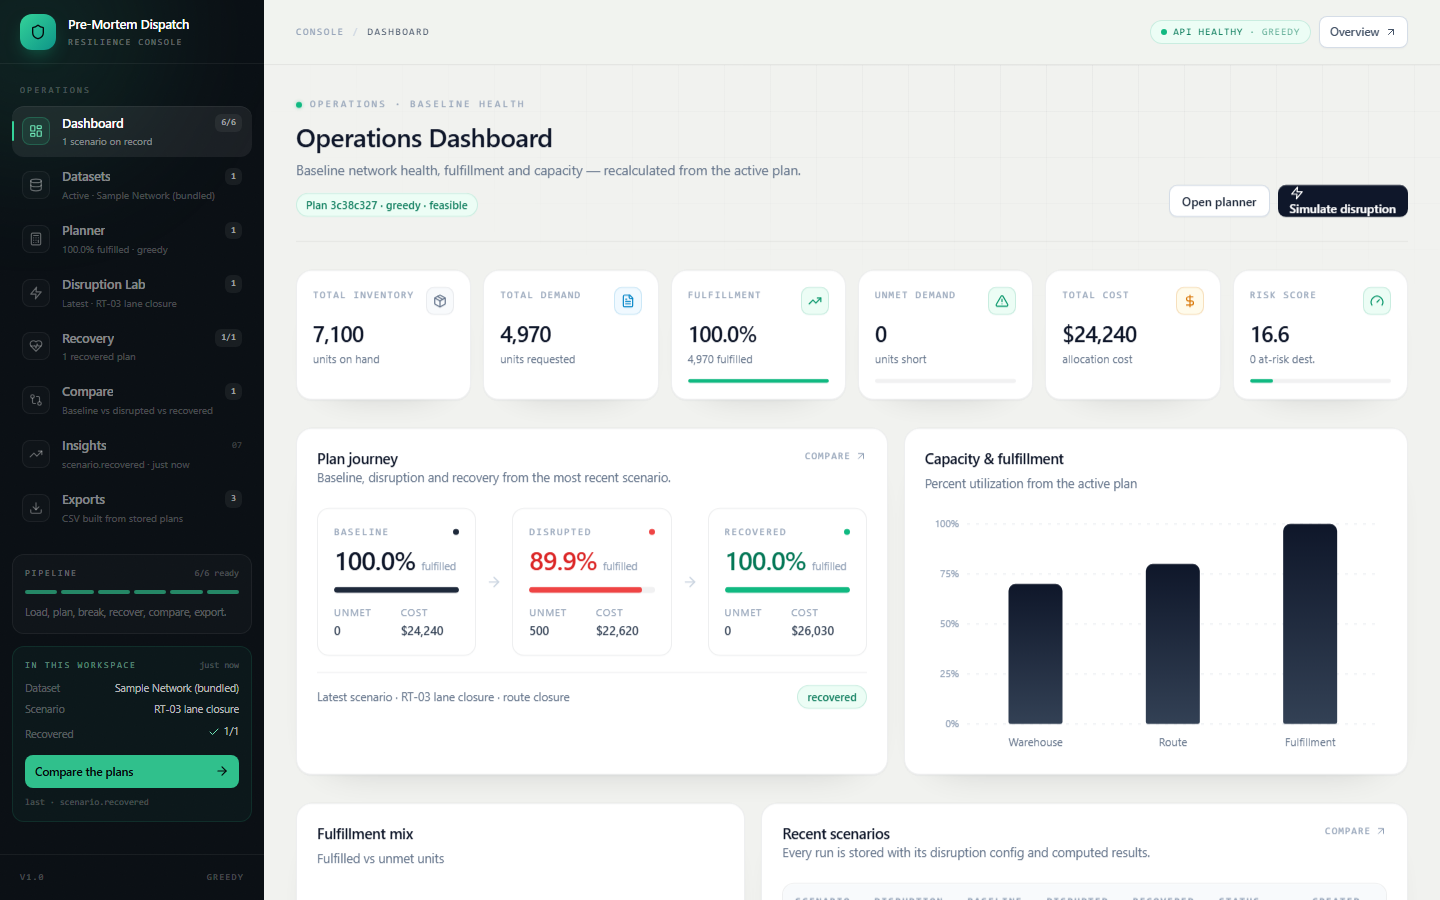
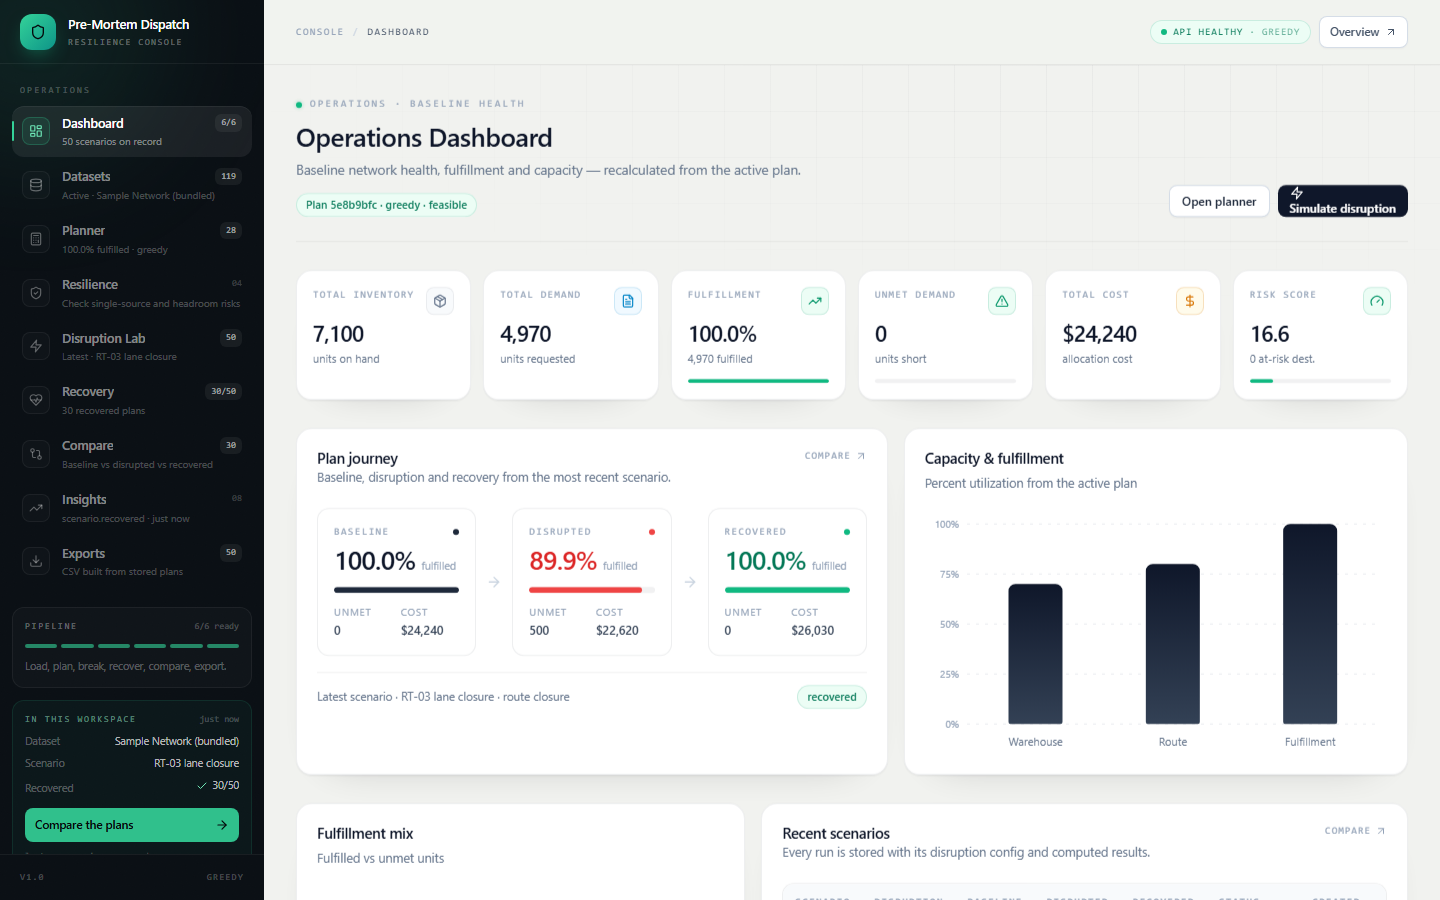
Docs: document the resilience intelligence release
Describe the new readiness and service-brief contracts, record their solver-tested guarantees, and regenerate all screenshots from the updated application.

diff --git a/README.md b/README.md
@@ -17,6 +17,7 @@ number computed, not narrated.
 |---|---|---|
 | 1 | **Datasets** | Load a bundled 4-warehouse / 8-destination network, or upload six CSVs. Schema, type, duplicate and referential checks run before anything is planned. |
 | 2 | **Planner** | Solves a constrained allocation: inventory, lane capacity, lane availability, product eligibility, destination priority — and, optionally, destination deadlines as a hard constraint. Shows every shipment, every gap, and the risk-score breakdown. |
+| ★ | **Resilience** | Scores ordinary-lane redundancy, contingency coverage, capacity headroom, inventory concentration and deadline margin before a failure is simulated. Vulnerabilities are ranked by affected units × destination priority. |
 | 3 | **Disruption Lab** | Mutates *real planning inputs* — reduced stock, zeroed supply, a closed lane, or added transit days — alone or up to five at once, applied in order. Impact is the difference between two computed plans. |
 | 4 | **Recovery** | Re-plans using contingency lanes and priority ordering, lists each concrete allocation change with its unit cost, and names the constraint behind every residual gap. |
 | 5 | **Compare** | Baseline / disrupted / recovered side by side, with server-computed deltas and a written trade-off. |
@@ -32,6 +33,11 @@ number computed, not narrated.
 
 That is the whole product in one line: *closing a lane costs 500 units of demand; buying it back
 through contingency capacity costs $3,410.*
+
+The tested mitigation view sharpens that answer further: activating `RT-13` alone restores 250
+of the 500 missing units for $1,905, while a 200-unit buffer at `WH-01` restores the largest
+remaining gap for $1,000. Every number is a fresh solver run, so the app can show which single
+manufacturer action is effective rather than merely recommending recovery.
 
 If recovery genuinely cannot cover demand, the app returns the residual gaps and names the
 limiting destination×product rows. It never reports a success it cannot compute.
@@ -50,6 +56,19 @@ limiting destination×product rows. It never reports a success it cannot compute
   against the same baseline. Shortage curves chart fulfilment and unmet units; delay curves
   chart deadline exposure, because volume stays at 100%. Each point names its dominant cause,
   and no scenario or plan is stored.
+- **Consumer service brief** — converts the disrupted plan into coverage and complete/on-time
+  service rates, highlights priority 1–2 unmet units, and ranks affected destination×product
+  promises without pretending to know individual customer counts.
+- **Solver-tested mitigations** — up to six isolated actions (activate a backup lane, add lane
+  capacity, create an inventory buffer, or expedite a route) are re-solved individually. The UI
+  shows the units actually restored, deadline units protected, marginal cost and residual gap.
+
+### How it serves both sides of the supply chain
+
+Manufacturers get an evidence-based answer to *"which dependency should we remove first, and what
+will the mitigation actually restore?"* Consumers are represented through the destinations they
+depend on: hospitals, clinics and fulfillment points receive a service-level view of how much
+demand is complete, late or unserved — never a marketing claim that a gap was solved.
 
 ### Screens
 
@@ -67,6 +86,8 @@ real computed figures. Every CTA routes into the console.
 | **Planner** — allocations, gaps, risk breakdown | **Compare** — absolute values, deltas, deadline exposure |
 | ![Workspace insights](docs/screenshots/insights.png) | ![Recovery center](docs/screenshots/recovery.png) |
 | **Insights** — server-aggregated trends, mix, recovery economics | **Recovery** — contingency actions, residual gaps, trade-off |
+| ![Network resilience](docs/screenshots/resilience.png) | ![Tested mitigations](docs/screenshots/mitigation-brief.png) |
+| **Resilience** — readiness score, bottlenecks and dependencies | **Service brief** — consumer exposure and ranked mitigation effects |
 
 ### Usability that survives a real workspace
 
@@ -116,7 +137,7 @@ drifting aurora gradients, a marquee of modelled constraints, and cursor spotlig
 it respects `prefers-reduced-motion`.
 
 **Routes:** `/` landing · `/login` (auth/token entry) · `/dashboard` · `/datasets` · `/planner` ·
-`/disruption` · `/recovery` · `/compare` · `/insights` · `/exports`
+`/resilience` · `/disruption` · `/recovery` · `/compare` · `/insights` · `/exports`
 
 ---
 
@@ -167,14 +188,14 @@ OR-Tools ran.
 ## Tests
 
 ```bash
-# Backend: allocation invariants + full API workflow
-python -m pytest apps/api/tests -q          # 95 passed
+# Backend: allocation, lifecycle, resilience and full API workflow
+python -m pytest apps/api/tests -q          # 101 passed
 
 # Frontend typecheck + production build
 cd apps/web && npm run build
 
 # Browser E2E — starts the API and Vite itself, on a separate e2e database
-cd apps/web && npx playwright test          # 17 passed
+cd apps/web && npx playwright test          # 18 passed
 ```
 
 `playwright.config.ts` auto-starts both processes and reuses already-running servers locally, so
@@ -241,8 +262,8 @@ apps/
       domain/      schemas.py — single source of truth (Pydantic)
       routers/     health, auth, activity, analytics, datasets, plans,
                    scenarios, forecast
-      services/    allocation, disruption, recovery, kpi, normalize,
-                   validation, reporting, audit, ml/{interface,baseline}
+      services/    allocation, disruption, recovery, resilience, advisory, kpi,
+                   normalize, validation, reporting, audit, ml/{interface,baseline}
       repo/        SQLite repository
     tests/
   web/
@@ -274,6 +295,12 @@ Full detail — data flow, invariants, objective function, risk formula — in
   replan.
 - **Feasibility ≠ optimality** — the greedy engine is feasible and priority-respecting, not
   proven optimal. Every plan displays its solver and status.
+- **Readiness ≠ disruption impact** — the resilience score measures structural redundancy and
+  headroom before failure; the existing risk score measures what the current plan actually fails
+  to serve. They are deliberately separate.
+- **Advice must earn its numbers** — a mitigation recommendation is one candidate mutation plus
+  a re-solve. The displayed restored units, deadline effect and cost come from that result; an
+  option that fails is labelled `no_effect` instead of being hidden or described as a win.
 
 ---
 

diff --git a/docs/api-contract.md b/docs/api-contract.md
@@ -194,6 +194,38 @@ emptied by newer plans of another type. `constraints` reports the planning polic
 Same shape as the create response, including `solver_status`, `constraints` and
 `unmet_diagnosis`.
 
+### `GET /plans/{id}/resilience`
+Pre-mortem readiness of a completed baseline. The endpoint reads the stored plan and its
+dataset, writes no plan/scenario/activity row, and returns an ephemeral score.
+
+```json
+{
+  "plan_id": "uuid",
+  "dataset_id": "uuid",
+  "score": 63.15,
+  "grade": "fragile",
+  "definition": "resilience_score = 30×lane redundancy + 20×contingency coverage + 20×capacity headroom + 15×inventory diversification + 15×delivery margin",
+  "score_components": [{ "key": "lane_redundancy", "weight": 30, "rate": 0.4688, "points": 14.06, "evidence": { "redundant_units": 2330 } }],
+  "metrics": { "total_demand": 4970, "redundant_lane_units": 2330, "contingency_covered_units": 4970, "capacity_headroom_rate": 0.2048 },
+  "vulnerabilities": [{
+    "kind": "lane_bottleneck",
+    "severity": "high",
+    "title": "WH-02 → DST-01 is 92.9% allocated",
+    "affected_units": 650,
+    "priority": 1,
+    "route_ids": ["RT-03"],
+    "evidence": { "shipped": 650, "capacity": 700, "utilization": 0.9286 }
+  }],
+  "recommendations": [{ "kind": "capacity_uplift", "title": "Increase spare lane capacity before the next planning cycle", "detail": "..." }],
+  "note": "Ephemeral readiness assessment: it does not store a plan, scenario, or activity record."
+}
+```
+
+`grade` is `resilient` at ≥80, `prepared` at ≥65, `fragile` at ≥45 and `critical`
+below that. Vulnerabilities are ranked by affected units multiplied by destination
+priority weight. Non-baseline or incomplete plans return `400` or `409`; missing
+plans/datasets return `404`.
+
 ### `DELETE /plans/{id}`
 Deletes an unreferenced plan. If a scenario still points at it as baseline, disrupted or
 recovered plan, the API returns `409` with `code: "conflict"` when any scenario references the plan; delete the
@@ -347,6 +379,48 @@ No body. Re-plans with contingency lanes enabled.
 
 `residual_diagnosis` uses the same shape as `unmet_diagnosis` and explains every
 remaining gap after recovery (for example `contingency_only` or `deadline_blocked`).
+
+### `GET /scenarios/{id}/brief`
+Read-only advisory built from the scenario's stored baseline policy and disruption
+events. It first re-solves the disrupted network, then evaluates up to six isolated
+manufacturer actions against that result. It does not create a scenario, plan or
+activity record.
+
+```json
+{
+  "scenario_id": "uuid",
+  "solver": "greedy",
+  "service": {
+    "total_demand": 4970,
+    "coverage_rate": 0.8994,
+    "on_time_rate": 0.8994,
+    "unmet": 500,
+    "critical_unmet_units": 500,
+    "statement": "4,470 of 4,970 units (89.9%) would be complete and on time...",
+    "impacted_destinations": [{ "destination_id": "DST-01", "name": "Metro General Hospital", "priority": 1, "unmet": 400, "late": 0, "on_time_rate": 0.3846 }],
+    "largest_gaps": [{ "destination_name": "Metro General Hospital", "product_name": "Emergency Kit", "quantity": 400, "cause": "capacity_shared", "summary": "..." }],
+    "model": { "consumer_scope": "modelled destination demand, not named individual consumers" }
+  },
+  "recommendations": [{
+    "kind": "activate_contingency_lane",
+    "title": "Activate contingency lane RT-13",
+    "tested": true,
+    "status": "validated",
+    "solver": "greedy",
+    "action": { "route_id": "RT-13" },
+    "projected": { "coverage_rate": 0.9497, "on_time_rate": 0.9497, "total_cost": 23235 },
+    "effect": { "restored_units": 250, "on_time_restored_units": 250, "cost_delta": 1905, "cost_per_restored_unit": 7.62 }
+  }],
+  "strategic_actions": [],
+  "mitigation_summary": { "options_tested": 4, "validated_options": 4, "best_restored_units": 250 },
+  "note": "Ephemeral advisory: each option re-solves one isolated network change and no scenario, plan, or activity row is stored."
+}
+```
+
+Recommendation kinds are `activate_contingency_lane`, `increase_route_capacity`,
+`add_inventory_buffer` and `expedite_lane`. Every projected value comes from a new
+solver run; an option with no solver effect is reported as `no_effect` rather than
+removed. A scenario without a disrupted plan returns `409`.
 
 ### `GET /scenarios/{id}/compare`
 ```json

diff --git a/docs/architecture.md b/docs/architecture.md
@@ -11,7 +11,7 @@ tested and replaced independently — not to distribute the deployment.
 ```mermaid
 flowchart TB
   subgraph FE["apps/web — React + TS + Vite"]
-    Pages["Pages: Dashboard · Datasets · Planner · Disruption · Recovery · Compare · Exports"]
+    Pages["Pages: Dashboard · Datasets · Planner · Resilience · Disruption · Recovery · Compare · Insights · Exports"]
     Client["lib/api.ts — typed fetch client"]
     Pages --> Client
   end
@@ -50,6 +50,8 @@ the whole history.
 | `services/disruption.py` | Mutating planning inputs on copies | Mutate the caller's objects |
 | `services/diagnosis.py` | Explain every unmet row from the inputs + result | Change feasibility or invent causes |
 | `services/recovery.py` | Recovery re-plan and allocation diff | Claim success when infeasible |
+| `services/resilience.py` | Baseline redundancy, headroom and deadline-margin assessment | Persist or mutate planning state |
+| `services/advisory.py` | Consumer service projection and isolated solver-tested mitigations | Recommend an effect the re-solve did not achieve |
 | `services/sensitivity.py` | Severity sweeps over one disruption | Persist results or change policy |
 | `services/kpi.py` | KPI + delivery-risk + risk score | Depend on persistence |
 | `services/normalize.py` | CSV row → typed domain object | Silently drop rows |
@@ -86,6 +88,11 @@ sequenceDiagram
   API->>DB: store plan + constraints
   API-->>FE: plan + KPIs
 
+  U->>FE: Assess baseline resilience
+  FE->>API: GET /plans/{id}/resilience
+  API->>DB: read baseline plan + unchanged dataset
+  API-->>FE: ephemeral readiness score and vulnerabilities
+
   U->>FE: Configure disruption
   FE->>API: POST /scenarios {baseline_plan_id, disruption}
   API->>DB: load baseline dataset (unchanged)
@@ -100,6 +107,13 @@ sequenceDiagram
   API->>KPI: recovered KPIs + residual
   API->>DB: store recovered plan
   API-->>FE: recovered plan + actions + residual
+
+  U->>FE: Analyze consumer exposure and mitigation moves
+  FE->>API: GET /scenarios/{id}/brief
+  API->>DB: replay stored scenario against the unchanged dataset
+  API->>ALLOC: one disrupted solve plus up to six one-lever solves
+  API->>KPI: service coverage, on-time units and tested effects
+  API-->>FE: service projection + ranked mitigations (writes nothing)
 
   U->>FE: Compare / export
   FE->>API: GET /scenarios/{id}/compare | /export
@@ -136,6 +150,9 @@ sequenceDiagram
 11. **Ephemeral sweeps.** A sensitivity sweep re-solves the same network at each severity with
     the baseline's solver and deadline policy, and writes nothing to the database. Verified by
     `test_shortage_sweep_degrades_fulfillment_and_stores_nothing`.
+12. **Ephemeral intelligence.** Resilience and scenario briefs recompute from stored inputs,
+    write no plan, scenario or activity record, and report a mitigation only when the re-solve
+    actually improves its projected effect. Verified by `test_resilience.py`.
 
 ## 5. Recovery model
 

diff --git a/docs/optimization.md b/docs/optimization.md
@@ -118,6 +118,50 @@ independent solve — the curve is not interpolated, and no scenario is stored.
 - Each point also aggregates the unmet causes, so the dominant binding constraint
   at that severity is visible next to the number.
 
+## Resilience score
+
+```
+resilience_score = 30×lane_redundancy
+                 + 20×contingency_coverage
+                 + 20×capacity_headroom
+                 + 15×inventory_diversification
+                 + 15×delivery_margin
+```
+
+- `lane_redundancy` — demand units that have at least two eligible ordinary lanes.
+- `contingency_coverage` — demand units reachable by at least one eligible backup lane.
+- `capacity_headroom` — unused capacity across all eligible ordinary routes.
+- `inventory_diversification` — demand-weighted share of product stock held away from its
+  largest warehouse.
+- `delivery_margin` — units allocated by the plan whose lane meets the destination deadline.
+
+The result is a pre-mortem structural score, not a disruption outcome. It deliberately does
+not reuse the plan's `risk_score`: risk measures how much is already failing, while
+resilience measures how much redundancy remains before failure begins.
+
+## Tested mitigation options
+
+`GET /scenarios/{id}/brief` re-solves the disrupted network, then creates up to six isolated
+candidate inputs from the evidence behind unmet and late rows:
+
+- activate one contingency lane;
+- increase one eligible lane's capacity;
+- add a product buffer at one reachable warehouse;
+- expedite one delayed or deadline-blocked lane.
+
+Each candidate is applied to a deep copy and solved under the baseline's policy and solver.
+The reported effect is exactly:
+
+```
+restored_units      = candidate fulfilled units − disrupted fulfilled units
+on_time_restored    = candidate on-time units − disrupted on-time units
+cost_delta          = candidate transport cost − disrupted transport cost
+```
+
+The service projection treats a destination×product promise as complete only when its units
+are allocated and `route.time_days <= destination.deadline_days`. These are modelled demand
+units, not an invented number of individual consumers. The advisory writes nothing.
+
 ## Documented assumptions
 
 1. **Route delay does not change capacity.** It raises `time_days`, which feeds the delivery-risk

diff --git a/docs/operations.md b/docs/operations.md
@@ -102,6 +102,9 @@ docker compose start api
   handling deliberately.
 - **Solver time.** `/plans` and scenario re-solves are synchronous. nginx allows 120 s, but a very
   large network should move solving to a job queue rather than raising that timeout.
+- **Advisory cost.** Baseline resilience reads one stored plan and its dataset. A scenario brief
+  performs one disrupted solve plus up to six isolated mitigation solves on demand. It stores no
+  results; the console makes the advisory opt-in so listing scenarios remains cheap.
 - **Docs exposure.** Leave `DOCS_ENABLED=false` in public deployments unless you intend to publish
   the OpenAPI schema.
 
